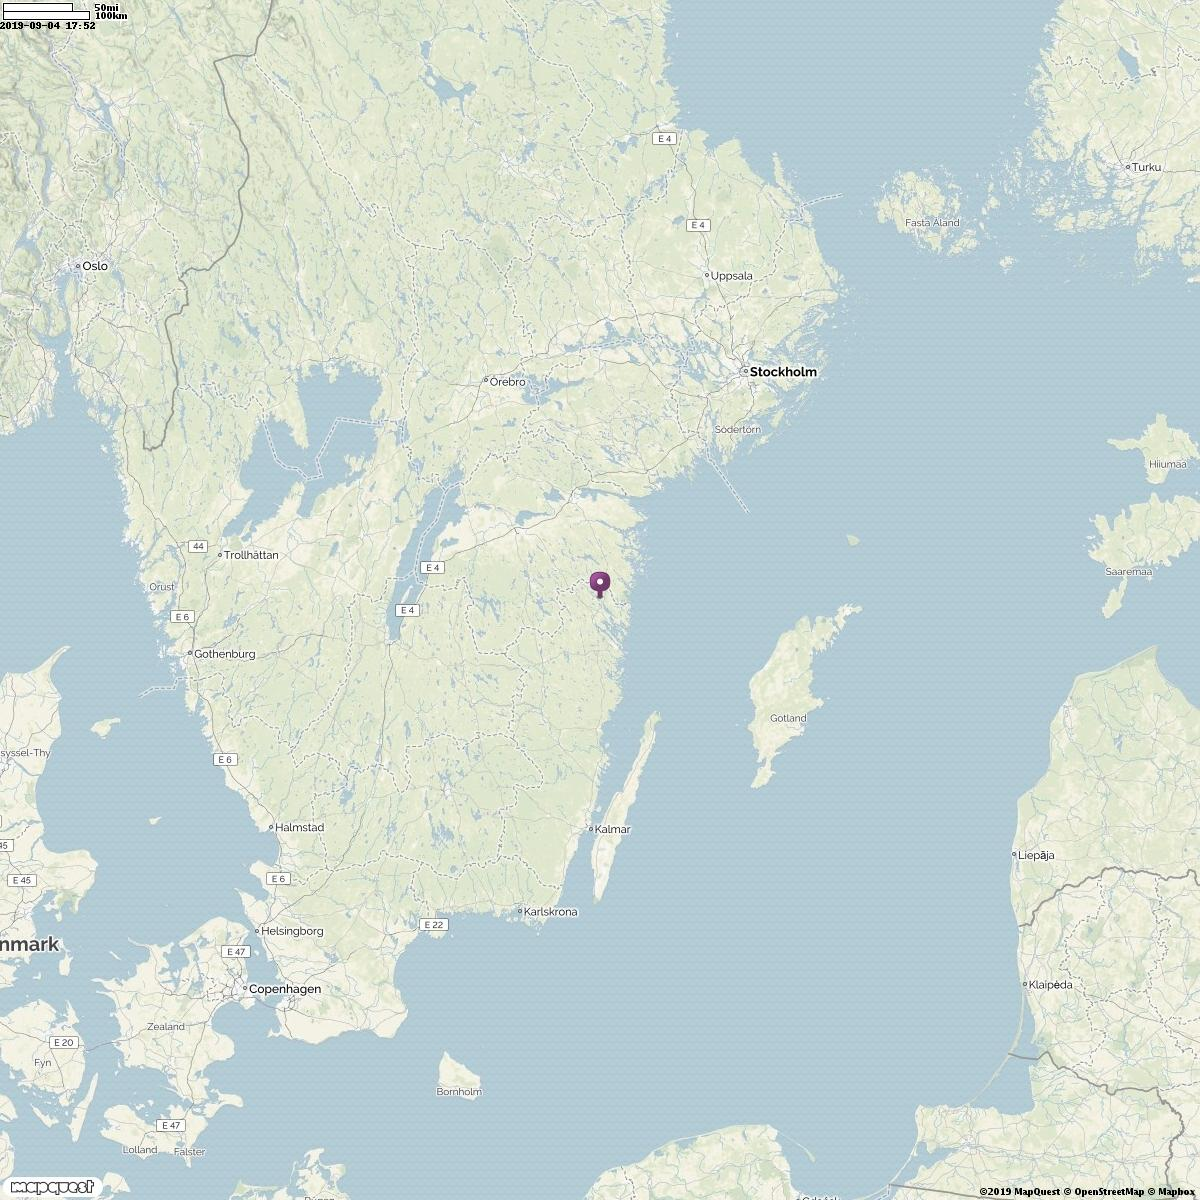
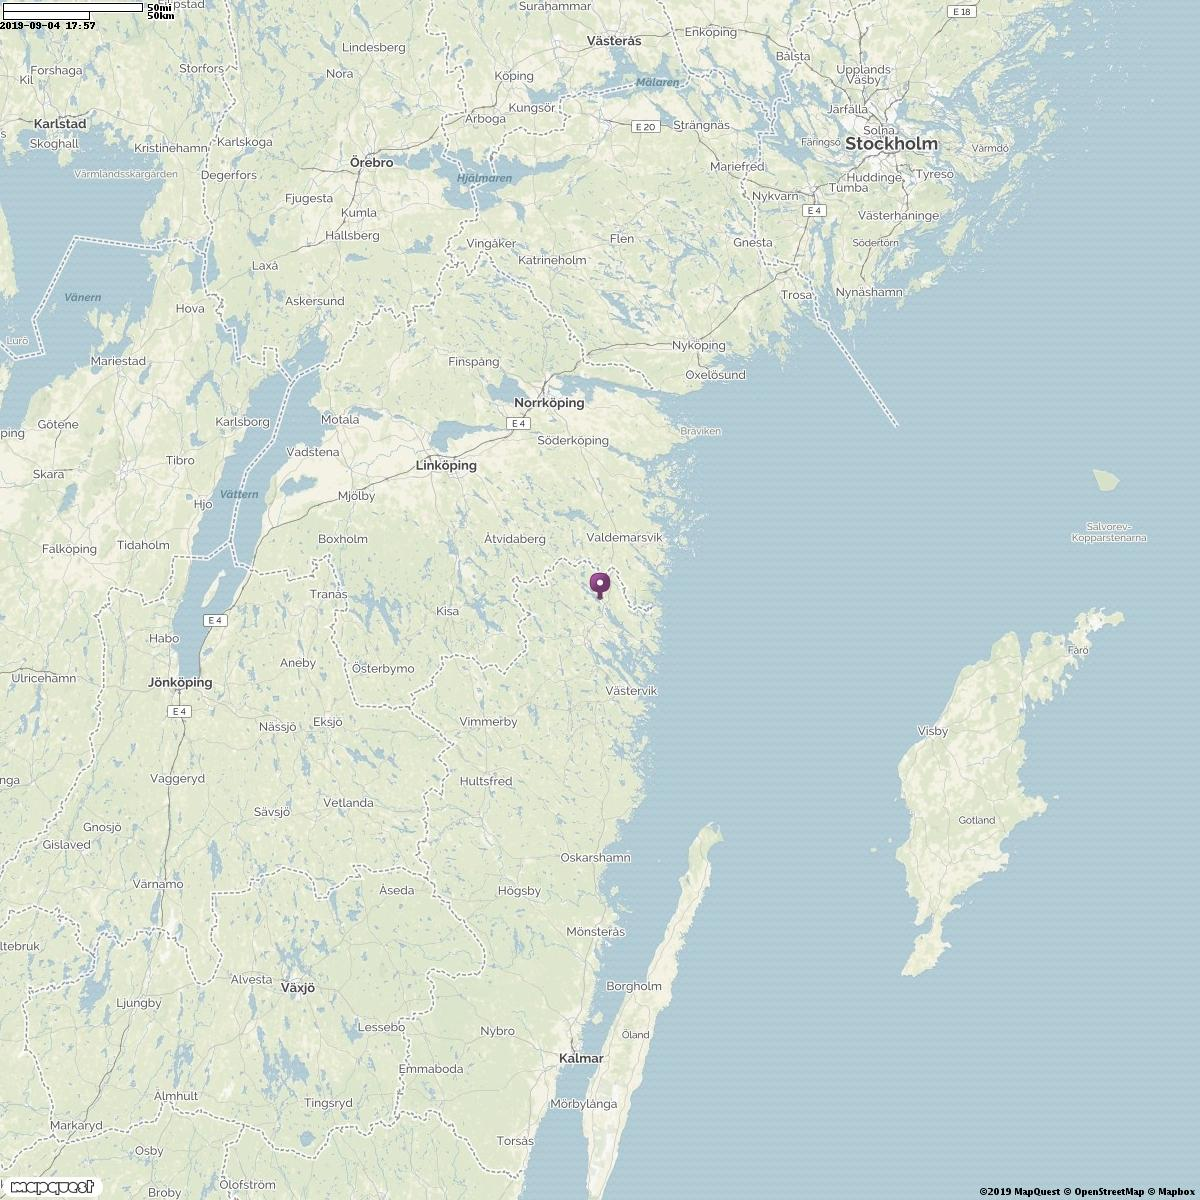
2019-09-04 17:57

diff --git a/monitor.py b/monitor.py
@@ -155,7 +155,7 @@ long = coordinatesLongList[0]
 print(f'{lat},{long}')
 
 with open(mapFileName, 'wb') as f:
-	f.write(requests.get(f'https://www.mapquestapi.com/staticmap/v4/getmap?size=1200,1200&type=map&zoom=7&center={lat},{long}&mcenter={lat},{long}&imagetype=JPEG&key=27OtkDxArEqki7qITqKQbtPgfAtHaWOe').content)
+	f.write(requests.get(f'https://www.mapquestapi.com/staticmap/v4/getmap?size=1200,1200&type=map&zoom=8&center={lat},{long}&mcenter={lat},{long}&imagetype=JPEG&key=27OtkDxArEqki7qITqKQbtPgfAtHaWOe').content)
 
 
 img = Image.open(mapFileName)
